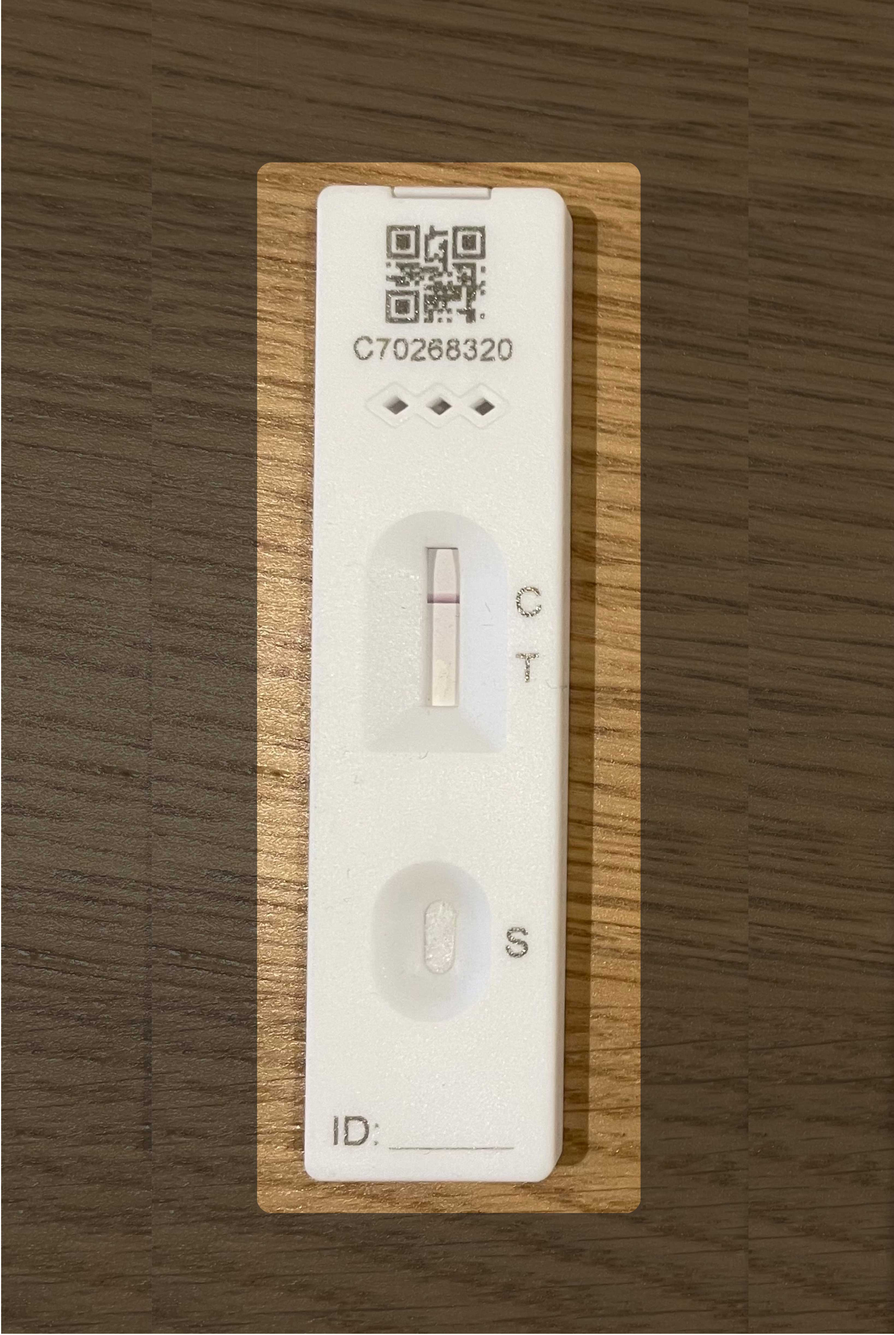
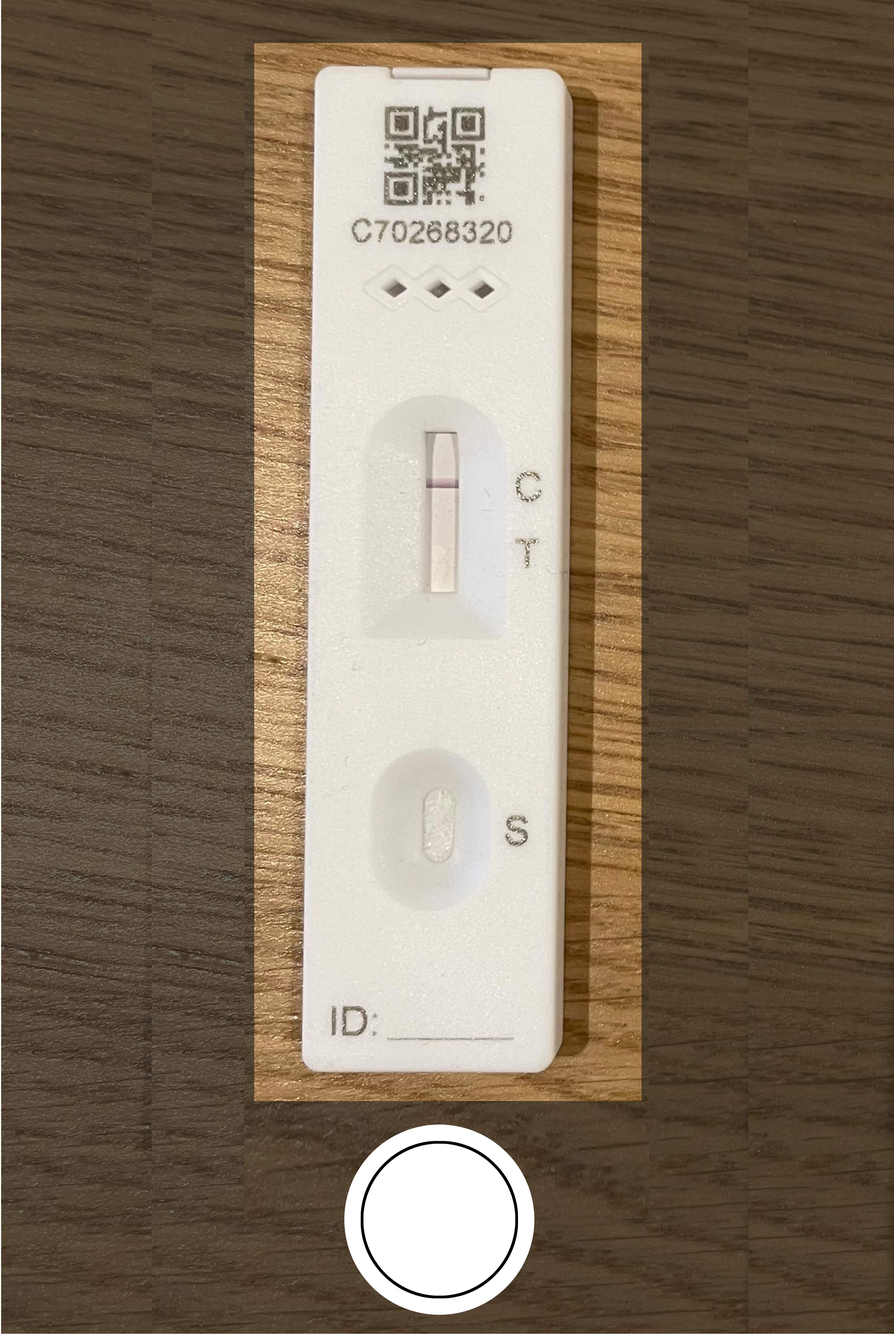
lfd

diff --git a/app/views/index.html b/app/views/index.html
@@ -1182,7 +1182,7 @@
                   <li><a href="/share-result-lateral-flow/v12/deep-link-error">Deep link error</a><nbsp> <strong class="govuk-tag govuk-tag--green govuk-!-margin-top-0 govuk-!-margin-bottom-2" style="font-size: 11px;">In live</strong></li>
                 </ul>
 
-                <h3 class="govuk-heading-s govuk-!-margin-bottom-1">W release (15/04/21) - AI end-state MVP</h3>
+                <h3 class="govuk-heading-s govuk-!-margin-bottom-1">W release (15/04/21) - AI MVP</h3>
                 <ul class="govuk-list govuk-list--bullet">
                   <li><a href="/share-result-lateral-flow/v16/index">W release (v16)</a><nbsp> <strong class="govuk-tag govuk-tag--green govuk-!-margin-top-0 govuk-!-margin-bottom-2" style="font-size: 11px;">In live</strong></li>
 
@@ -1209,7 +1209,7 @@
                         </details>-->
                   </ul>
 
-                  <h3 class="govuk-heading-s govuk-!-margin-bottom-1">A release (12/05/21) - Dynamic content</h3>
+                  <h3 class="govuk-heading-s govuk-!-margin-bottom-1">A release (12/05/21) - Dynamic content - AI and Self Report</h3>
                   <ul class="govuk-list govuk-list--bullet">
                     <li><a href="/share-result-lateral-flow/v18-1/index">Version 18.1: Reporting for someone else (1st/3rd person switcher)</a><nbsp> <strong class="govuk-tag govuk-tag--green govuk-!-margin-top-0 govuk-!-margin-bottom-2" style="font-size: 11px;">In live</strong></li>
                 </ul>

diff --git a/app/views/share-result-lateral-flow/v18-1/photo-guidance-2.html b/app/views/share-result-lateral-flow/v18-1/photo-guidance-2.html
@@ -33,9 +33,9 @@
         </div>
 
         <br>
-        <a href="photo-validation-2" class="govuk-button govuk-u-margin-bottom-8" style="margin-right: 10px">
+      <!--  <a href="photo-validation-2" class="govuk-button govuk-u-margin-bottom-8" style="margin-right: 10px">
           Take photo
-        </a>
+        </a> -->
 
         <a href="using-mobile" role="button" draggable="false" class="govuk-button govuk-button--secondary" data-module="govuk-button">
           Cancel

diff --git a/app/views/share-result-lateral-flow/v18-1/photo-validation-2.html b/app/views/share-result-lateral-flow/v18-1/photo-validation-2.html
@@ -38,7 +38,7 @@
       </ul>
 
         <div>
-            <img style="width:100%" src="/public/images/LFD-test-strip-rounded.jpg" alt="image of a test device">
+            <img style="width:100%" src="/public/images/LFD-test-strip-rounded-no-button.jpg" alt="image of a test device">
         </div>
 
         <br>
